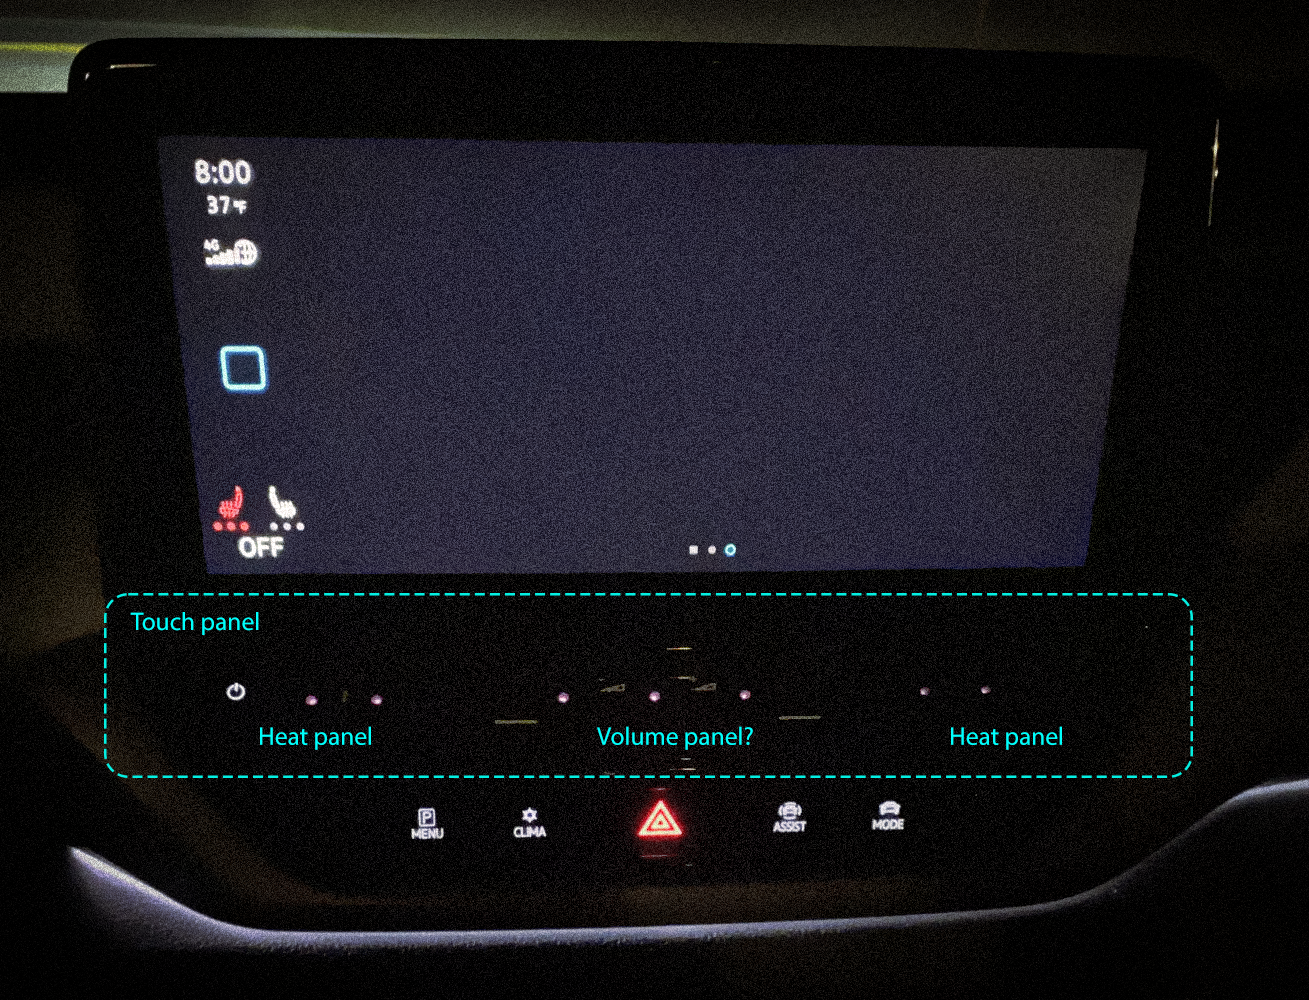
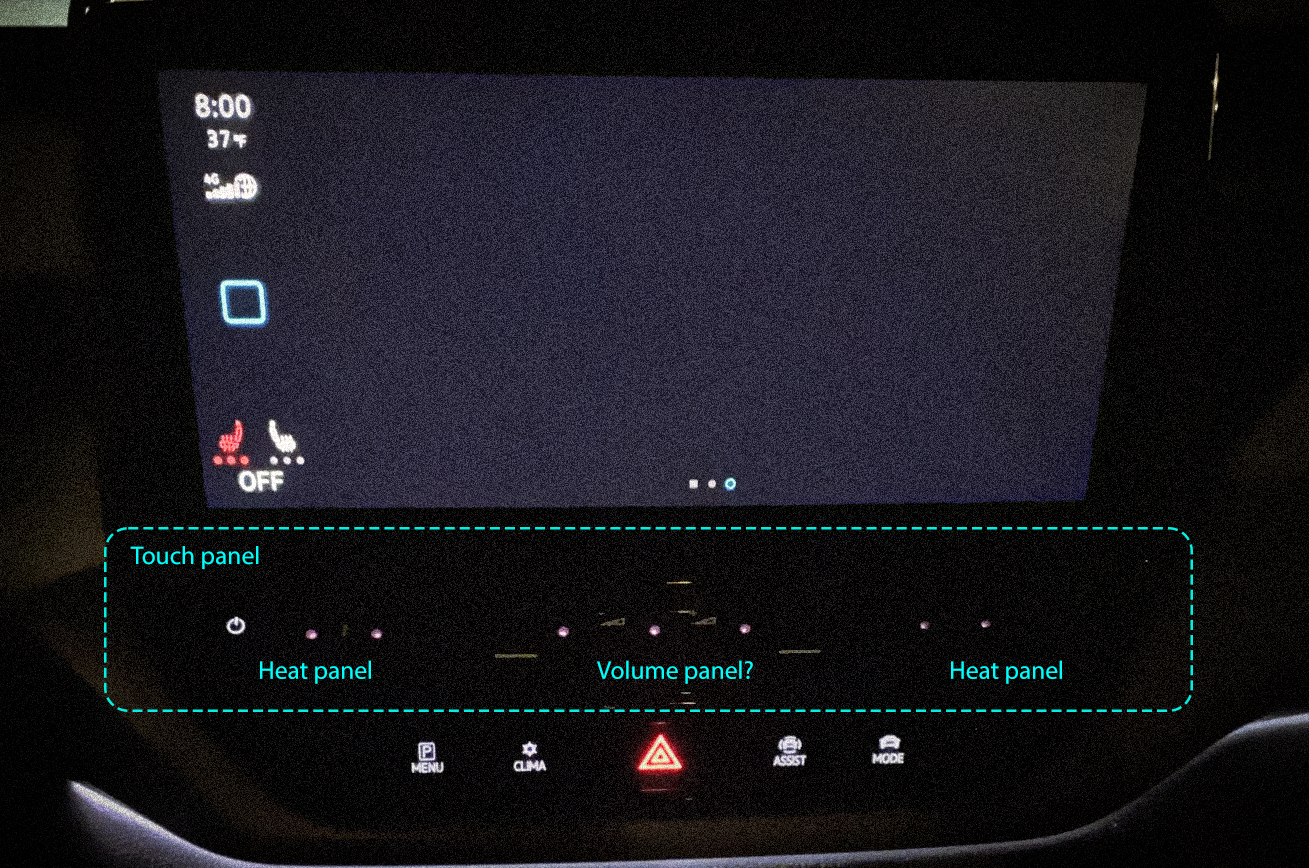
haptics: crop left image to match right height, border-radius -> var(--cs-radius)

diff --git a/case-study/haptics.html b/case-study/haptics.html
@@ -380,8 +380,8 @@
   <!-- Image row: regulatory comparison -->
   <div class="container">
     <div class="cs-image-row-2" data-reveal>
-      <div><img src="../Figma/v1haptic1.png" alt="" style="width:100%;height:auto;display:block;border-radius:12px"></div>
-      <div><img src="../Figma/ferrari-luce-driver.webp" alt="" style="width:100%;height:auto;display:block;border-radius:12px"></div>
+      <div><img src="../Figma/v1haptic1.png" alt="" style="width:100%;height:auto;display:block"></div>
+      <div><img src="../Figma/ferrari-luce-driver.webp" alt="" style="width:100%;height:auto;display:block"></div>
     </div>
   </div>
 

diff --git a/css/case-study.css b/css/case-study.css
@@ -532,7 +532,7 @@ body.cs-page {
 
 .cs-image-row-2 div,
 .cs-image-row-3 div {
-  border-radius: 12px;
+  border-radius: var(--cs-radius);
   overflow: hidden;
 }
 
